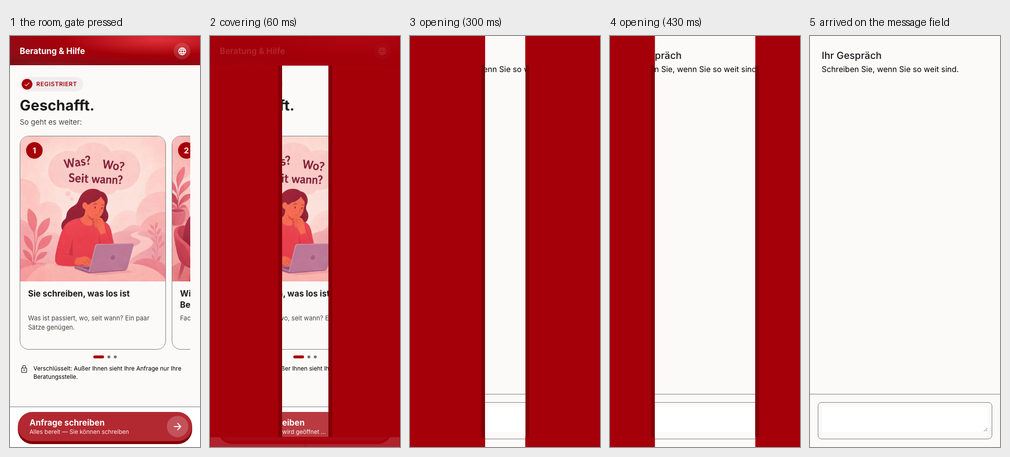
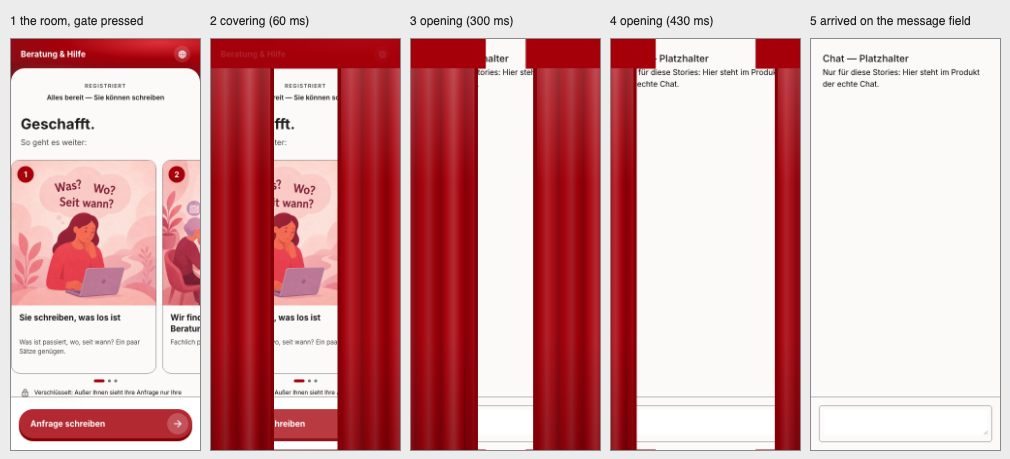
docs(closing): re-shoot the contact sheets for the pleated curtain (#1737)
03/04 showed the old flat curtain and 07/08 the slide reveal before its
shared timeline; both are frozen again at 60 ms of the cover and at
300 ms and 430 ms of the reveal, from the current Try-it stories.

diff --git a/docs/storybook/issue-1737-closing-animation/README.md b/docs/storybook/issue-1737-closing-animation/README.md
@@ -10,6 +10,10 @@ Animations at fixed instants: 60 ms into the cover, 300 ms and 430 ms into the r
 - `03`, `04`, `07`, `08` — **after**: the room, the screen being covered, two frames of the reveal,
   and the message field the person arrives on.
 
+Re-shot on 2026-10-19 at `8f43d89d3`: the curtain is the pleated one, the slide reveal runs on the shared
+timeline. The flat red band above and below the folds is the part of the screen outside the
+room's content box (top bar, bottom edge); it travels with its half.
+
 What these images prove: the geometry of each design at those instants, on a
 1440 px desktop and a 390 px phone. What they cannot show: timing, easing and
 smoothness. Those are covered by the Storybook contract
